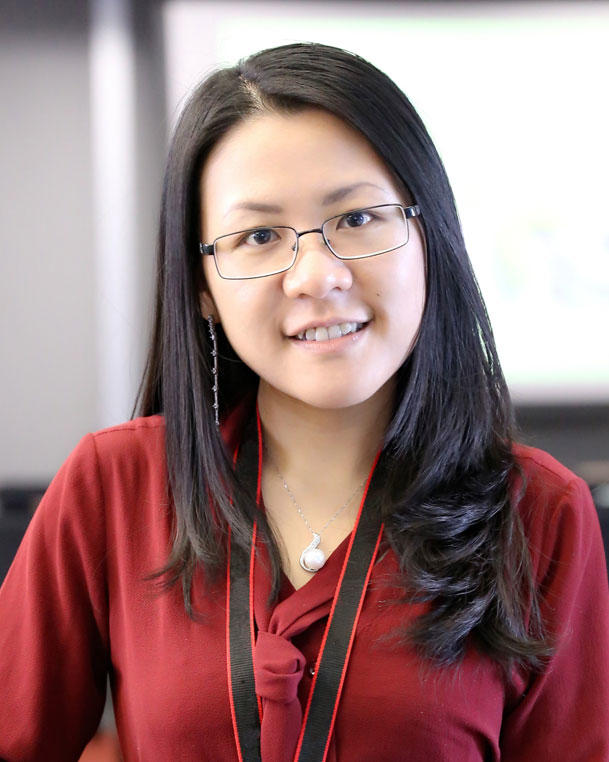
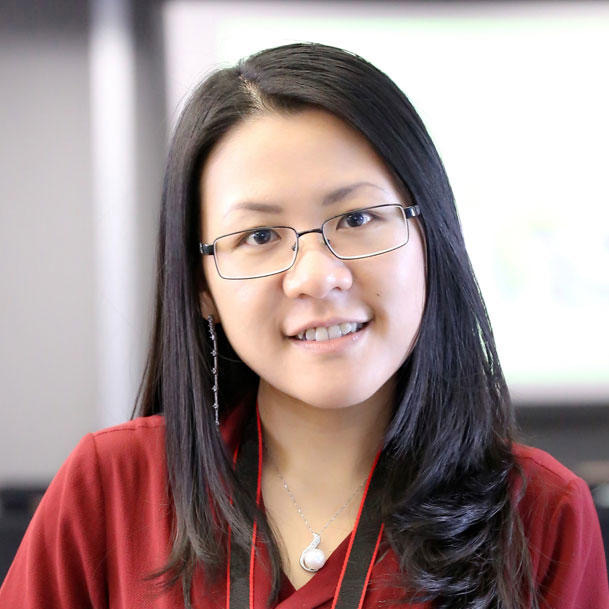
updated authors, sessions landing, lock tabs

diff --git a/_authors/Tongwu_Zhang.md b/_authors/Tongwu_Zhang.md
@@ -1,11 +1,10 @@
 ---
 picture: tongwu-zhang-bio-pic.jpeg
-short_name: Tongwu
+short_name: Tongwu Zhang
 name: Tongwu Zhang, Ph. D.
-organization: NCI - DCEG
+organization: NCI - ITEB
 position: Staff Scientist
+profile_link: https://dceg.cancer.gov/about/staff-directory/zhang-tongwu
 ---
 
-Dr. Tongwu Zhang received his Ph.D. in bioinformatics from Zhejiang University, China, in June 2012. He conducted part of his doctoral research at the Beijing Institute of Genomics, Chinese Academy of Science, where he worked on whole-genome assembly and RNA-sequencing analysis. Before joining NCI, he was a visiting scholar at the King Abdulaziz City for Science and Technology, Kingdom of Saudi Arabia. Dr. Zhang joined the Laboratory of Translational Genomics (LTG) as a visiting postdoctoral fellow in July 2012, under the mentorship of Kevin M. Brown, Ph.D. He became a staff scientist in the Integrative Tumor Epidemiology Branch (ITEB) in October 2017.
-
-Dr. Zhang has received numerous awards for his work, including an NCI Director’s Innovation Award in 2013, a Fellowship Achievement Award for Excellence in 2014, a DCEG Intramural Research Award in 2015, a DCEG Fellow Award for Research Excellence (DFARE) in 2016, a DCEG Outstanding Research Paper by a Staff Scientist distinction in 2019, and a winning entry in the 2016, 2019, and 2020 DCEG Informatics Tool Challenge.
+Dr. Tongwu Zhang received his Ph.D. in bioinformatics from Zhejiang University, China, in June 2012. Dr. Zhang's research focuses on analyzing, integrating, and interpreting multi-omics data for both cancer genomic and genetic studies. He leads the genomic analyses and develops new bioinformatics tools and pipelines for Sherlock-Lung, a study that aims to elucidate the etiology of lung cancer in never smokers (LCINS).

diff --git a/_authors/Wei_Zhao.md b/_authors/Wei_Zhao.md
@@ -1,13 +1,10 @@
 ---
 picture: WeiZhao_r_ITEB.jpeg
-short_name: Wei
+short_name: Wei Zhao
 name: Wei Zhao, Ph. D.
-organization: NCI - DCEG
+organization: NCI - ITEB
 position: Research Fellow
+profile_link: https://dceg.cancer.gov/fellowship-training/fellowship-experience/meet-fellows/iteb/zhao-wei
 ---
 
-Wei Zhao, Ph.D., joined the Integrative Tumor Epidemiology Branch (ITEB) as a postdoctoral fellow in November 2018 and was promoted to a research fellow in September 2020. Dr. Zhao earned her Ph.D. in bioinformatics from the University of North Carolina at Chapel Hill under the supervision of Dr. Chuck Perou in 2014. Her doctoral research focused on characterization of the genomic and clinical heterogeneity of breast cancer subtypes using deep- sequencing and microarray.
-
-Prior to joining NCI, Dr. Zhao conducted postdoctoral training in the Department of Systems Biology in MD Anderson Cancer Center for four years. Working with Dr. Gordon Mills and Dr. Han Liang, she identified predictive molecular markers and drug targets for rational combinatorial therapy in gynecologic cancers, and developed computational tools for analysis of proteomic data.
-
-In ITEB, Dr. Zhao is working with Maria Teresa Landi, Ph.D., M.D., senior investigator, to investigate the etiology and progression of lung cancer in never smokers through a comprehensive genomic analysis and clinical and epidemiologic assessment.
+Dr. Wei Zhao earned her Ph.D. in bioinformatics from the University of North Carolina at Chapel Hill in 2014 researching genomic and clinical heterogeneity of breast cancer using deep- sequencing and microarray. She joined ITEB in 2018 working with Dr. Landi on Sherlock Lung. Her current research focuses on transcriptomics and tumor microenvironment.

diff --git a/staff.md b/staff.md
@@ -5,20 +5,34 @@ title: Instructors
 nav_order: 4
 ---
 <!----- <h1>Instructors</h1> ---->
-
+<!--
   {% for author in site.authors %}
   <section>
 	<figure style="float:left" class="image is-128x128">
 		<img class="is-rounded" src="{{ site.baseurl }}/assets/img/{{ author.picture }}">
 	</figure>
-    <!---
-    <img class="is-rounded" style="float:left" src="{{ site.baseurl }}/assets/img/{{ author.picture }}" alt="{{ author.name }}" height=180 width=180 />
-    --->
     <div style="margin-left: 200px">
     	<h2>{{ author.name }}</h2>
     	<h4>{{ author.organization }}</h4>
     	<h4>{{ author.position }}</h4>
     	<p>{{ author.content | markdownify }}</p>
+      {% if author.profile_link %}<br><a href="{{author.profile_link}}">{{author.short_name}}'s profile</a> {% endif %}
+    </div>
+  <br><br>
+  {% endfor %}
+  </section>
+-->
+  <section class="px-4">
+  {% for author in site.authors %}
+	<figure class="image is-128x128" style="float:left" >
+		<img class="is-rounded" src="{{ site.baseurl }}/assets/img/{{ author.picture }}">
+	</figure>
+    <div class="px-4" style="overflow: auto">
+    	<h2>{{ author.name }}</h2>
+    	<h4>{{ author.organization }}</h4>
+    	<h4>{{ author.position }}</h4>
+    	<p>{{ author.content | markdownify }}</p>
+      {% if author.profile_link %}<br><a href="{{author.profile_link}}">{{author.short_name}}'s profile</a> {% endif %}
     </div>
   <br><br>
   {% endfor %}

diff --git a/sessions/session_5/index.md b/sessions/session_5/index.md
@@ -12,3 +12,7 @@ permalink: sessions/session_5
 
 ### Practical
 - Calling and analyzing mutational signatures
+
+In this session we will provide a comprehensive overview of mutational signatures as well as the methods to study them. We will begin by highlighting the history and concepts for mutational signatures. Most importantly, we will emphasize the findings of emerging mutational signature analyses used in cancer genomic studies to elucidate cancer etiology. Then we will introduce the algorithms, databases, and web portals for deciphering mutational signatures in cancer genomic studies, including de-novo extraction, decomposition to known reference signatures, analysis of clustered mutational signatures, topography analysis of mutational signatures, and evolution of mutational signatures within tumors. Finally, we will also show a few common experimental methods for validation of mutational signatures.
+
+In the practical section, we will provide a tutorial to comprehensively study mutational signatures using web-based data portals. This tutorial will cover most of the basic knowledge of mutational signatures introduced in the lecture. In addition, we will also practice deciphering mutational signatures from example datasets. This practice will show how to perform de-novo and reference-based decomposition of mutational signatures using state-of-the-art algorithms.

diff --git a/sessions/session_4/index.md b/sessions/session_4/index.md
@@ -3,6 +3,12 @@ layout: page
 permalink: sessions/session_4
 ---
 
+### Topics Covered
+- Mutation calling, annotation, mutational burden
+
+### Practical
+- Mutation calling (including mutation annotation, mutational burden, VAF, also on cloud environment)
+
 The lecture in this session will introduce you to different types of somatic mutations, focusing on short variants (single nucleotide variants and insertions/deletions), the GATK best practices framework to short variant discovery, and common challenges for accurate somatic mutation detection. We will also introduce common variant calling methods and variant callers, followed by a summary of variant filtering and annotation steps. A few examples of how IGV could be used to validate and visualize somatic variants will also be included. Finally, we will discuss downstream analyses commonly performed in cancer genomics studies.
 
 In the practical session, you will gain hands-on experience of running through the GATK pipeline for somatic mutation discovery as well as annotating variants. You will also have a chance to use IGV to examine high-confidence variants versus probable sequencing artifacts. Finally, you will learn how to use the cloud environment for your somatic analyses.

diff --git a/_authors/Maria_Tere_Landi.md b/_authors/Maria_Tere_Landi.md
@@ -1,0 +1,12 @@
+---
+picture: maria-teresa-landi-bio-pic.jpeg
+short_name: Maria Teresa Landi
+name: Maria Teresa Landi, M.D., Ph. D.
+organization: NCI - ITEB
+position: Senior Investigator
+profile_link: https://dceg.cancer.gov/about/staff-directory/landi-maria
+---
+
+Dr. Landi received an M.D. summa cum laude from the University of Milan, Italy, and was trained in oncology and general medicine at the San Raffaele Hospital, University of Milan. She received a Ph.D. in occupational medicine and industrial hygiene, subgroup of molecular epidemiology, from an Italian University Consortium in 1993. Dr. Landi received tenure in the Division of Cancer Epidemiology and Genetics (DCEG), NCI in 2006. She is an Associate Professor of Epidemiology at the Johns Hopkins Bloomberg School of Public Health, Baltimore, Maryland.
+
+Dr. Landi's research focuses on understanding tumor etiology and evolution for potential translational applications. She leads large-scale multidisciplinary research projects primarily on genetic and environmental determinants of lung cancer and melanoma, including Sherlock Lung.

diff --git a/sessions/session_1/index.md b/sessions/session_1/index.md
@@ -17,7 +17,7 @@ transfer data (Globus account, mount HPC directory, GUI file transfer)
 - Samtools: Read BAM file, get all aligned reads, index, stats
 - Bedtools: merge/intersect
 
-In this first section we will introduce the basics of working with Biowulf and CCAD including connecting to, working with, and transferring files from both clusters.
+In this first session we will introduce the basics of working with Biowulf and CCAD including connecting to, working with, and transferring files from both clusters.
 
 Both Biowulf and the CCAD cluster are accessed remotely via the linux command line, therefore some command line knowledge is necessary to work with either. We will cover the basics of linux and shell scripting in the lecture and provide resources for further education. Finally, we will provide an overview of the most common file formats for storing bioinformatics data as well as the tools for working with them.
 

diff --git a/_posts/2022-07-21-save-the-dates.md b/_posts/2022-07-21-save-the-dates.md
@@ -15,4 +15,4 @@ Please mark them down in your calendar so you can be sure not to miss them.
 All sessions begin at 9:30am with a lecture component ending at 10:30, usually followed by a practical session ending at 12pm.
 Help sessions with Sherlock bioinformaticians will run for 2 hours from 9:30am to 11:30am.
 
-Sign up for the course using [this google form]() if you haven't already. Those who participate in all lectures and practical sessions will receive a certificate of completion for the course suitable for your CV/resume.
+Sign up for the course [here]() if you haven't already. Those who participate in all lectures and practical sessions will receive a certificate of completion for the course suitable for your CV/resume.

diff --git a/sessions/index.md b/sessions/index.md
@@ -6,8 +6,6 @@ has_children: true
 nav_order: 2
 ---
 
-Click a session on the left to view course content.
+Click a session on the left to view course content adapted from the in-person classes (check [here]({{ site.baseurl }}/news) for the latest schedule).
 
-### 2022 Session Dates
-
-<img src="/tumor_epidemiology_approaches/assets/somatic_analysis_workshop_flyer_FINAL.png"/>
+Adapting materials for the website is currently ongoing and will be finalized for each session near their 2022-2023 dates.

diff --git a/sessions/session_3/index.md b/sessions/session_3/index.md
@@ -3,6 +3,14 @@ layout: page
 permalink: sessions/session_3
 ---
 
+### Topics Covered
+
+- What kind of specimens (FF/FFPE/Blood/others), studies, analyses? Cost, study design, QC?
+- Targeted panel bulk sequencing
+- Whole exome bulk sequencing
+- Whole genome bulk sequencing
+
+
 The aim of this session is to provide an in-depth summary of the DNA
 sequencing techniques most useful for cancer genomics, particularly
 next-generation sequencing (NGS) and Pacbio long read sequencing. First

diff --git a/_authors/Phuc_Hoang.md b/_authors/Phuc_Hoang.md
@@ -1,0 +1,8 @@
+---
+picture: phuc_hoang.jpeg
+short_name: Phuc Hoang
+name: Phuc Hoang, Ph. D.
+organization: NCI - ITEB
+position: Bioinformatician [C]
+---
+Dr. Phuc Hoang received his Master in Biochemistry from the University of Oxford and Ph.D. in cancer genetics/bioinformatics from The Institute of Cancer Research, London in 2020. He is currently working on analyzing DNA methylation and Radiology data in the Sherlock-Lung project.

diff --git a/_authors/Alyssa_Klein.md b/_authors/Alyssa_Klein.md
@@ -1,0 +1,8 @@
+---
+picture: alyssa_klein.jpeg
+short_name: Alyssa
+name: Alyssa Klein
+organization: NCI - ITEB
+position: Bioinformatician [C]
+---
+Alyssa Klein received her MS in Bioinformatics from Hood College in May 2020. She works as a bioinformatician to support the Integrative Tumor Epidemiology Branch (ITEB), helping to manage and analyze large genomic databases from epidemiological and clinical studies.
